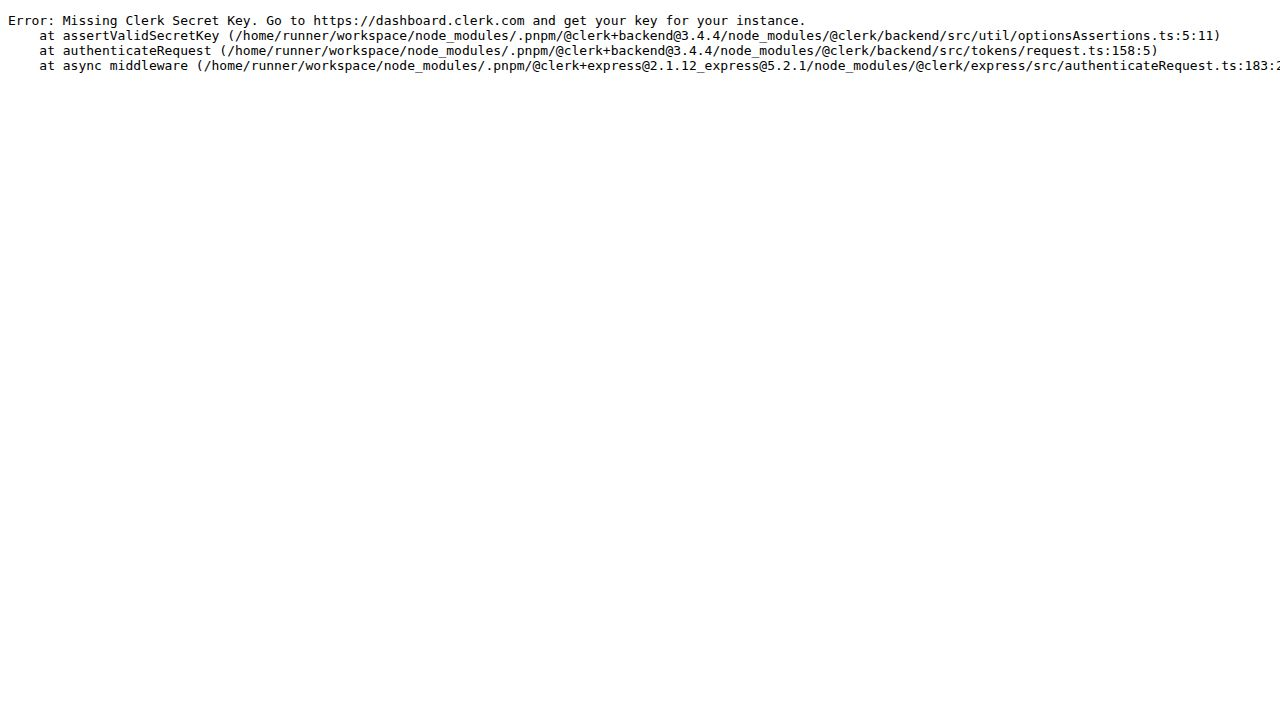
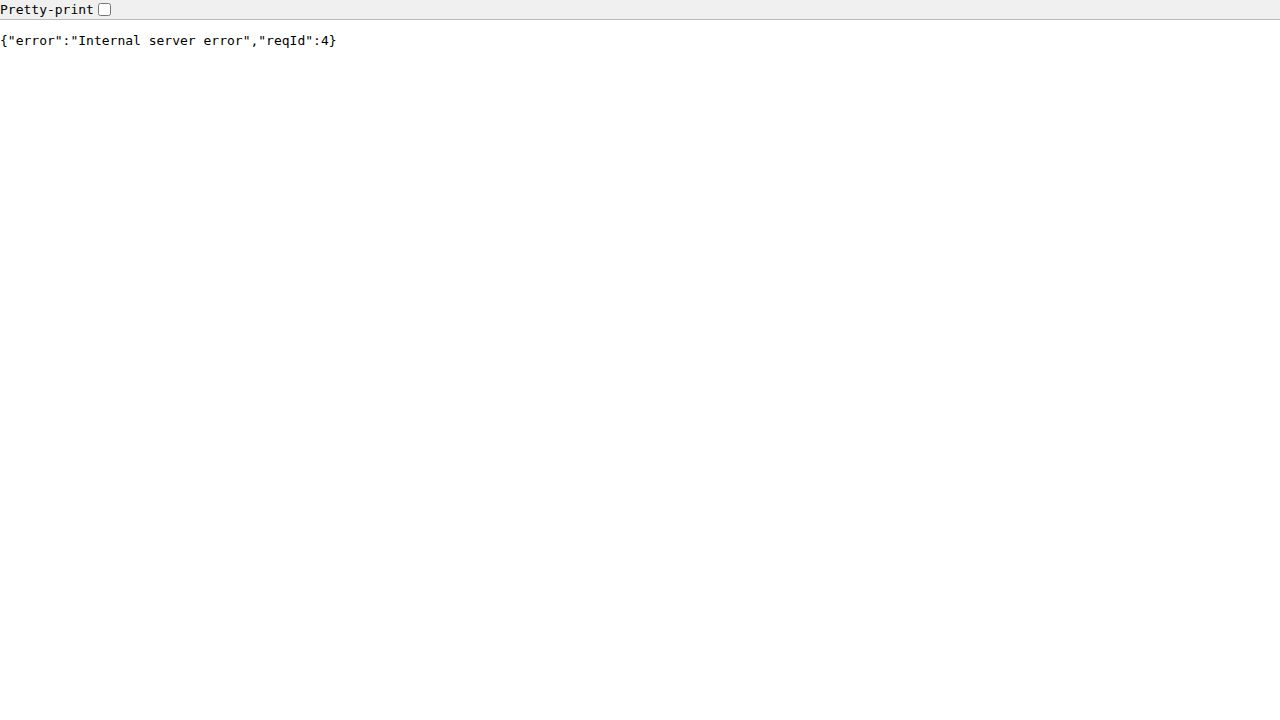
Fix blank page issue by correctly routing requests in development
Adjusted backend routing and Clerk configuration to ensure proper functionality in development environments.

Replit-Commit-Author: Agent
Replit-Commit-Session-Id: 0fc57ab0-72d6-4667-9192-2b4bccff86b5
Replit-Commit-Checkpoint-Type: full_checkpoint
Replit-Commit-Event-Id: 2a152564-1ad4-49fc-ae44-3c6c537a8639
Replit-Commit-Screenshot-Url: https://storage.googleapis.com/screenshot-production-us-central1/25c39bda-4a9e-4f0c-a52d-db5dffd03a35/0fc57ab0-72d6-4667-9192-2b4bccff86b5/sXpG6Tr
Replit-Helium-Checkpoint-Created: true

Changed region(s): [[0.0, 0.0, 0.9688, 0.1222]]

diff --git a/backend/src/app.ts b/backend/src/app.ts
@@ -61,12 +61,38 @@ app.get("/api/version", async (_req, res) => {
   res.json({ commit: COMMIT_SHA, env: process.env.NODE_ENV ?? "unknown", db });
 });
 
+// In development, forward non-API requests to the Vite dev server
+if (process.env.NODE_ENV === "development") {
+  const http = await import("node:http");
+  const VITE_PORT = parseInt(process.env.VITE_PORT ?? "18973", 10);
+
+  app.use((req, res, next) => {
+    if (req.path.startsWith("/api")) return next();
+    const proxyReq = http.request(
+      {
+        hostname: "localhost",
+        port: VITE_PORT,
+        path: req.url,
+        method: req.method,
+        headers: { ...req.headers, host: `localhost:${VITE_PORT}` },
+      },
+      (proxyRes) => {
+        res.writeHead(proxyRes.statusCode ?? 502, proxyRes.headers);
+        proxyRes.pipe(res, { end: true });
+      },
+    );
+    proxyReq.on("error", () => res.status(502).send("Vite dev server unreachable"));
+    req.pipe(proxyReq, { end: true });
+  });
+}
+
 // Raw body for Stripe webhooks
 app.use("/api/billing/webhook", express.raw({ type: "application/json" }));
 app.use(express.json());
 app.use(express.urlencoded({ extended: true }));
 
 app.use(
+  "/api",
   clerkMiddleware((req) => ({
     publishableKey: publishableKeyFromHost(
       getClerkProxyHost(req) ?? "",

diff --git a/frontend/src/App.tsx b/frontend/src/App.tsx
@@ -30,7 +30,10 @@ import BrowsePage from "@/pages/browse";
 import NotFound from "@/pages/not-found";
 
 const basePath = import.meta.env.BASE_URL.replace(/\/$/, "");
-const clerkProxyUrl = import.meta.env.VITE_CLERK_PROXY_URL;
+// Clerk proxy only applies in production — dev instances connect directly to FAPI
+const clerkProxyUrl = import.meta.env.PROD
+  ? (import.meta.env.VITE_CLERK_PROXY_URL ?? `${window.location.origin}/api/__clerk`)
+  : undefined;
 const clerkPubKey = publishableKeyFromHost(
   window.location.hostname,
   import.meta.env.VITE_CLERK_PUBLISHABLE_KEY

diff --git a/db/src/index.ts b/db/src/index.ts
@@ -13,6 +13,7 @@ if (!process.env.DATABASE_URL) {
 export const pool = new Pool({
   connectionString: process.env.DATABASE_URL,
   connectionTimeoutMillis: 5_000,
+  query_timeout: 12_000,
   idleTimeoutMillis: 30_000,
   max: 10,
 });

diff --git a/replit.md b/replit.md
@@ -171,3 +171,38 @@ All routes prefixed with `/api`. Key routes:
 - Billing webhook: `checkout.session.completed` activates plan; `customer.subscription.deleted` + `invoice.payment_failed` downgrade to free
 - Plan limits enforced server-side on product create and order create
 - Referral rewards credited as `bonusOrders` in `usage_tracking` for the referrer's current month
+
+## Backend Hardening (implemented)
+
+### DB Pool (`db/src/index.ts`)
+- `connectionTimeoutMillis: 5000` — fail fast if pool exhausted
+- `query_timeout: 12_000` — client-side query timeout (complements server-side)
+- `idleTimeoutMillis: 30_000` — return idle connections to OS
+- `max: 10` — cap connections
+- `pool.on("connect")` sets `SET statement_timeout = '10000'` per connection (server-side hard limit)
+- `pool.on("error")` logs via pino; `checkDb()` / `getPoolStats()` exported from `backend/src/lib/health.ts`
+
+### Health & Observability
+- `GET /api/healthz` — public (pre-Clerk), returns `{ status, db }`, 200 or 503
+- `GET /api/version` — public (pre-Clerk), returns `{ commit, env, db }`, always 200
+- `GET /admin/health` — admin-only, returns `{ status, db, pool: { total, idle, waiting } }`
+
+### Middleware Stack (order in `app.ts`)
+1. `pinoHttp` — structured request logging
+2. `injectReqId` — stamps `req.startedAt`, injects `reqId` into all 4xx/5xx responses
+3. `CLERK_PROXY_PATH` (`/api/__clerk`) — Clerk proxy (production only; no-op in dev)
+4. `cors` — credentials + origin
+5. `/api/healthz` and `/api/version` — public health endpoints (before Clerk)
+6. **Dev proxy** — non-`/api` requests forwarded to Vite dev server (port 18973) via Node's `http` module; only active when `NODE_ENV=development`
+7. Body parsers (json, urlencoded; raw for Stripe webhooks)
+8. `clerkMiddleware` scoped to `/api` — validates session tokens (requires `CLERK_SECRET_KEY`)
+9. `/api` router — all API routes
+10. `errorHandler` — logs `{ err, userId, storeId, status, responseTimeMs }`, returns 500
+
+### Graceful Shutdown (`backend/src/index.ts`)
+- SIGTERM / SIGINT → `server.close()` + 10-second force-kill timer
+
+### Dev Preview Routing
+- The backend (port 8080) is mapped to external port 80 via `.replit`; the artifact path router at port 80 cannot override this in dev
+- The dev proxy middleware (step 6 above) compensates: non-API traffic arriving at the backend is piped to the Vite server transparently
+- Clerk `proxyUrl` is set to `undefined` in dev (`import.meta.env.PROD` guard) — Clerk dev instances connect directly to FAPI; proxy only activates in production
